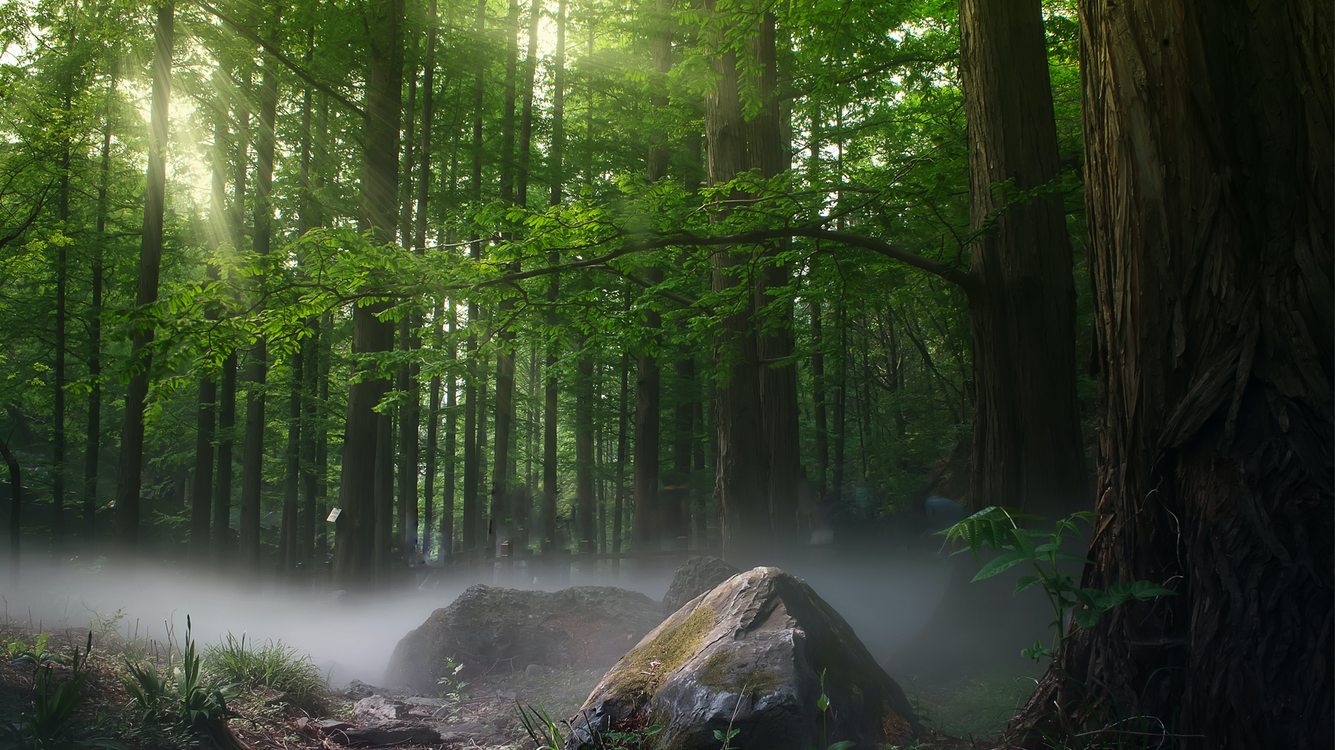
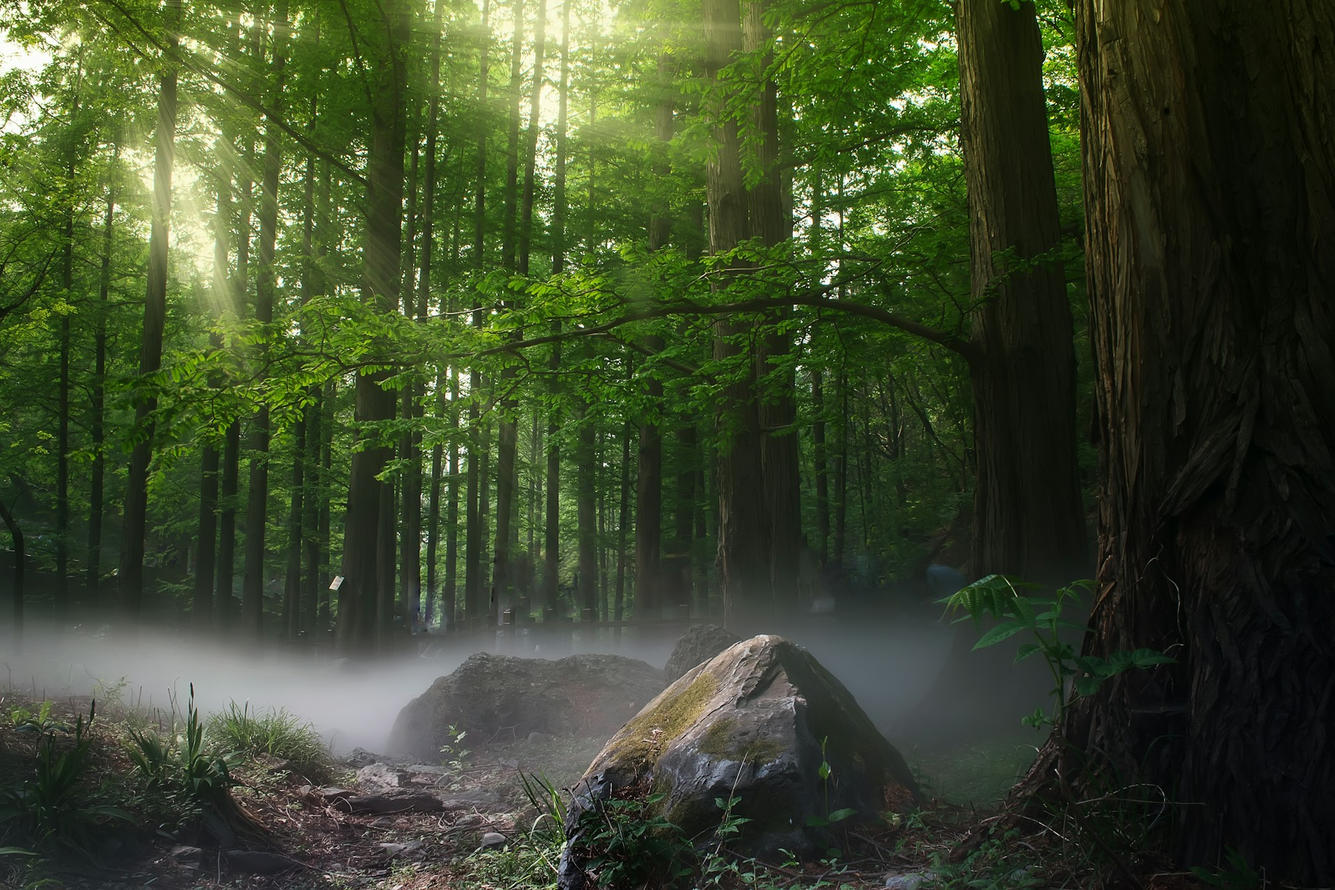
China Forest Section Complete

diff --git a/style.css b/style.css
@@ -13,7 +13,7 @@
     left: 0;
     width: 100%;
     padding: 30px 5%;
-    background: seagreen;
+    background: transparent;
     display: flex;
     align-items: center;
     z-index: 100;
@@ -65,4 +65,107 @@
     font-weight: 500;
     margin-left: 30px;
     text-shadow: 0 0 10px rgba(0, 0, 0, .2);
+}
+
+.banner {
+    position: relative;
+    width: 100%;
+    height: 100vh;
+}
+
+.slider .slide {
+    position: absolute;
+    width: 100%;
+    height: 100%;
+}
+
+.slide img {
+    position: absolute;
+    width: 100%;
+    height: 100%;
+    object-fit: cover;
+    pointer-events: none;
+}
+
+.slide .left-info {
+    position: absolute;
+    top: 0;
+    left: 0;
+    width: 50%;
+    height: 100%;
+}
+
+.left-info .penetrate-blur {
+    position: absolute;
+    width: 100%;
+    height: 100%;
+    background: rgba(255, 255, 255, .1);
+    backdrop-filter: blur(20px);
+    display: flex;
+    justify-content: flex-end;
+    align-items: center;
+}
+
+.penetrate-blur h1 {
+    font-size: 250px;
+    color: #fff;
+}
+
+.left-info .content {
+    position: absolute;
+    bottom: 8%;
+    left: 10%;
+    color: #fff;
+}
+
+.content h3 {
+    font-size: 20px;
+}
+
+.content p {
+    font-size: 16px;
+    margin: 10px 0 15px;
+}
+
+.content .btn {
+    display: inline-block;
+    padding: 13px 28px;
+    background: #fff;
+    border: 2px solid #fff;
+    border-radius: 6px;
+    box-shadow: 0 0 10px rgba(0, 0, 0, .1);
+    font-size: 16px;
+    color: #444;
+    text-decoration: none;
+    font-weight: 600;
+    transition: .5s;
+}
+
+.content .btn:hover {
+    background: transparent;
+    color: #fff;
+}
+
+.slide .right-info {
+    position: absolute;
+    top: 0;
+    right: 0;
+    width: 50%;
+    height: 100%;
+    display: flex;
+    align-items: center;
+}
+
+.right-info h1 {
+    font-size: 250px;
+    color: #fff;
+}
+
+.right-info h3 {
+    position: absolute;
+    font-size: 80px;
+    color: #fff;
+    text-shadow: 0 0 10px rgba(0, 0, 0, .5);
+    transform: translateY(150%);
+    margin-left: 13px;
 }

diff --git a/index.html b/index.html
@@ -30,6 +30,30 @@
         </nav>
     </header>
 
+    <section class="banner">
+        <div class="slider">
+            <div class="slide">
+                <img src="images/china.jpg" alt="">
+                <div class="left-info">
+                    <div class="penetrate-blur">
+                        <h1>Chi</h1>
+                    </div>
+                    <div class="content">
+                        <h3>01. China Forest Tour</h3>
+                        <p>China's diverse forests beckon tourists with enchanting landscapes,
+                            vibrant biodiversity, and cultural significance. From the ancient bamboo
+                            groves of Sichuan to the mystical forests of Yunnan, a journey awaits.</p>
+                            <a href="#" class="btn">More Details</a>
+                    </div>
+                </div>
+                <div class="right-info">
+                    <h1>na</h1>
+                    <h3>Forest</h3>
+                </div>
+            </div>
+        </div>
+    </section>
+
     <script src="script.js"></script>
 </body>
 
